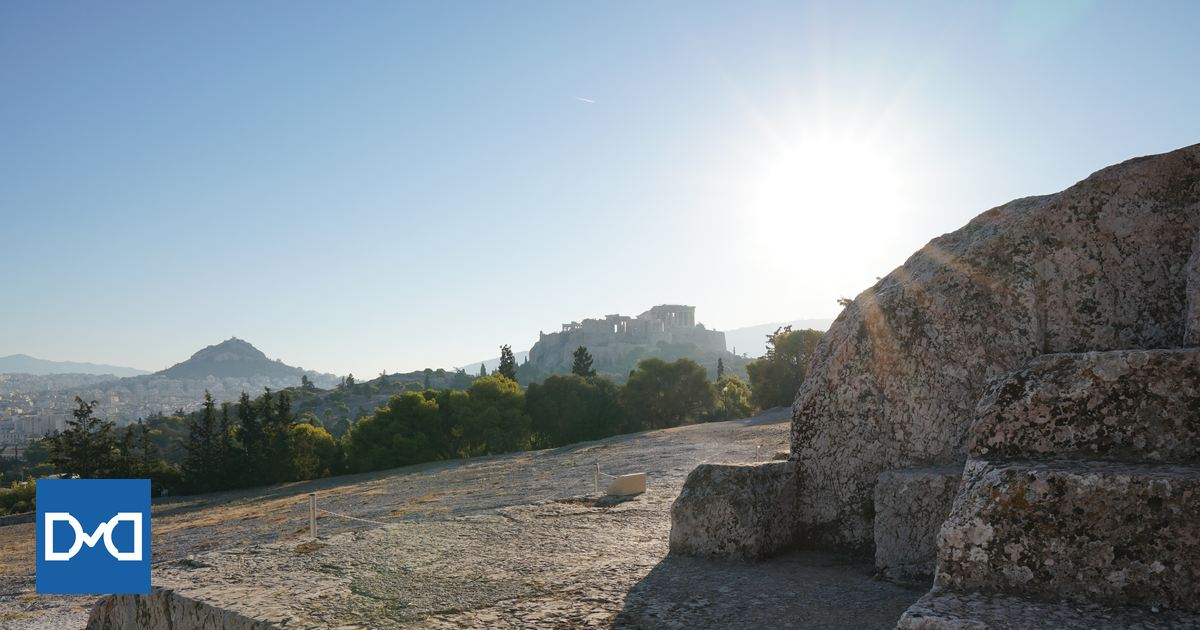
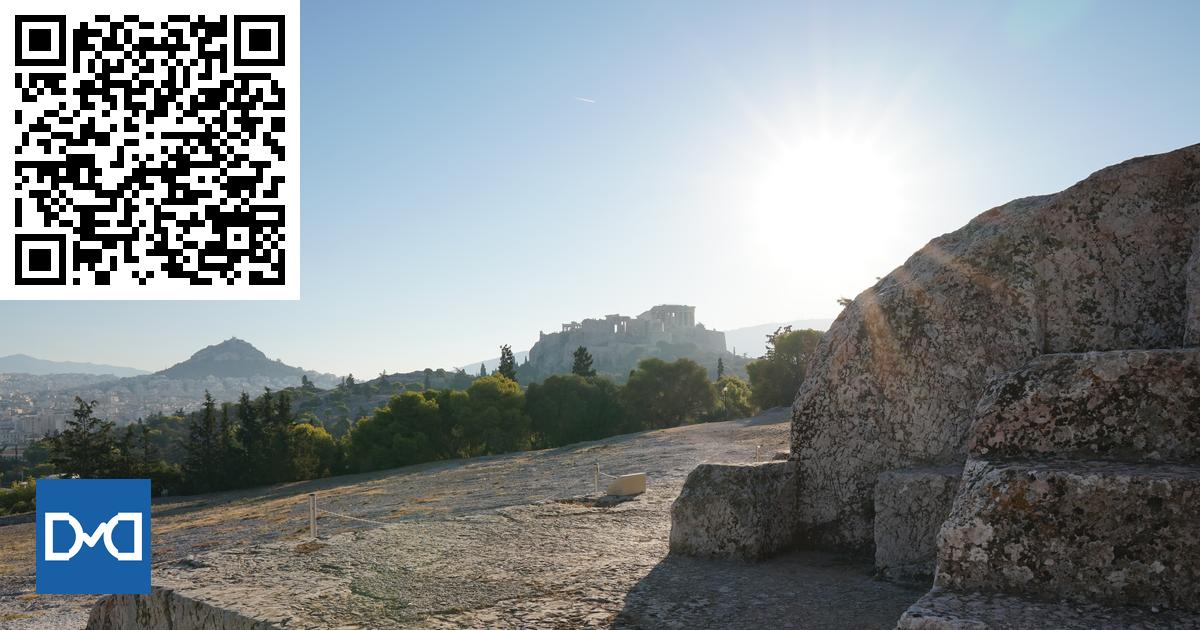
Lisaa QR-koodi jakokuviin: uusi staattinen kuva avoimille aanestyksille, dynaaminen per-aanestys QR paattyneiden tuloskuviin

Changed region(s): [[0.0, 0.0, 0.2775, 0.4825]]

diff --git a/src/services/resultImage.js b/src/services/resultImage.js
@@ -2,6 +2,7 @@ const fs = require('fs');
 const path = require('path');
 const satori = require('satori').default;
 const { Resvg } = require('@resvg/resvg-js');
+const QRCode = require('qrcode');
 
 // Open Graph -kuvien vakiokoko (ks. myös routes/share.js:n og:image:width/height).
 const WIDTH = 1200;
@@ -33,7 +34,11 @@ function h(type, style, children) {
   return { type, props: { style: { display: 'flex', ...style }, children } };
 }
 
-function buildTree(poll) {
+function img(src, size) {
+  return { type: 'img', props: { src, width: size, height: size, style: { display: 'flex' } } };
+}
+
+function buildTree(poll, qrDataUrl) {
   const options = poll.options.slice(0, MAX_OPTIONS);
 
   const children = [
@@ -78,10 +83,22 @@ function buildTree(poll) {
 
     h('div', {
       marginTop: 'auto',
-      justifyContent: 'flex-end',
-      fontSize: 18,
-      color: COLORS.textSecondary,
-    }, 'Suora Demokratia'),
+      flexDirection: 'row',
+      justifyContent: 'space-between',
+      alignItems: 'flex-end',
+    }, [
+      qrDataUrl
+        ? h('div', {
+            backgroundColor: '#FFFFFF',
+            borderRadius: 8,
+            padding: 8,
+          }, [img(qrDataUrl, 84)])
+        : h('div', {}, []),
+      h('div', {
+        fontSize: 18,
+        color: COLORS.textSecondary,
+      }, 'Suora Demokratia'),
+    ]),
   ].filter(Boolean);
 
   return h('div', {
@@ -96,12 +113,20 @@ function buildTree(poll) {
 
 /**
  * Renderöi päättyneen äänestyksen tulosnäkymän (otsikko - kuvaus - "Lopullinen
- * tulos:" - vaihtoehdot prosentteineen - "Suora Demokratia") PNG-kuvaksi
+ * tulos:" - vaihtoehdot prosentteineen - QR-koodi + "Suora Demokratia") PNG-kuvaksi
  * somejakoa varten. `poll.options`-kentässä on oltava jo valmiiksi lasketut
  * `percentage`-arvot (ks. services/pollFormat.js:n withPercentages).
+ *
+ * `pollUrl` on valinnainen - jos annettu, kuvan vasempaan alakulmaan piirretään
+ * QR-koodi joka johtaa suoraan tähän äänestykseen (sama osoite kuin sivun
+ * og:url, ks. routes/share.js). Ilman sitä QR-koodi jätetään pois.
  */
-async function renderEndedPollImage(poll) {
-  const svg = await satori(buildTree(poll), {
+async function renderEndedPollImage(poll, pollUrl) {
+  const qrDataUrl = pollUrl
+    ? await QRCode.toDataURL(pollUrl, { margin: 0, width: 240 })
+    : null;
+
+  const svg = await satori(buildTree(poll, qrDataUrl), {
     width: WIDTH,
     height: HEIGHT,
     fonts: [

diff --git a/src/routes/shareImage.js b/src/routes/shareImage.js
@@ -5,6 +5,10 @@ const { ENDED_COLLECTION } = require('../services/pollArchive');
 const { withPercentages } = require('../services/pollFormat');
 const { renderEndedPollImage } = require('../services/resultImage');
 
+// Sama julkinen osoite kuin routes/share.js:ssä - käytetään QR-koodin
+// sisältämän äänestyslinkin (pollUrl) rakentamiseen resultImage.js:lle.
+const PUBLIC_BASE_URL = (process.env.PUBLIC_BASE_URL || 'https://directdemocracy-4yjp.onrender.com').replace(/\/+$/, '');
+
 // Päättyneen äänestyksen tulokset eivät enää muutu, joten kuva riittää
 // renderöidä kerran per äänestys ja pitää muistissa - ei tarvetta ajastimelle
 // tai levylle tallentamiselle. Yläraja estää muistin kasvamisen rajattomasti,
@@ -36,7 +40,8 @@ router.get('/share-image/ended/:pollId', async (req, res) => {
       if (!doc.exists) return res.status(404).end();
 
       const poll = withPercentages(doc.data());
-      image = await renderEndedPollImage(poll);
+      const pollUrl = `${PUBLIC_BASE_URL}/ended/${pollId}`;
+      image = await renderEndedPollImage(poll, pollUrl);
       cacheImage(pollId, image);
     }
 
